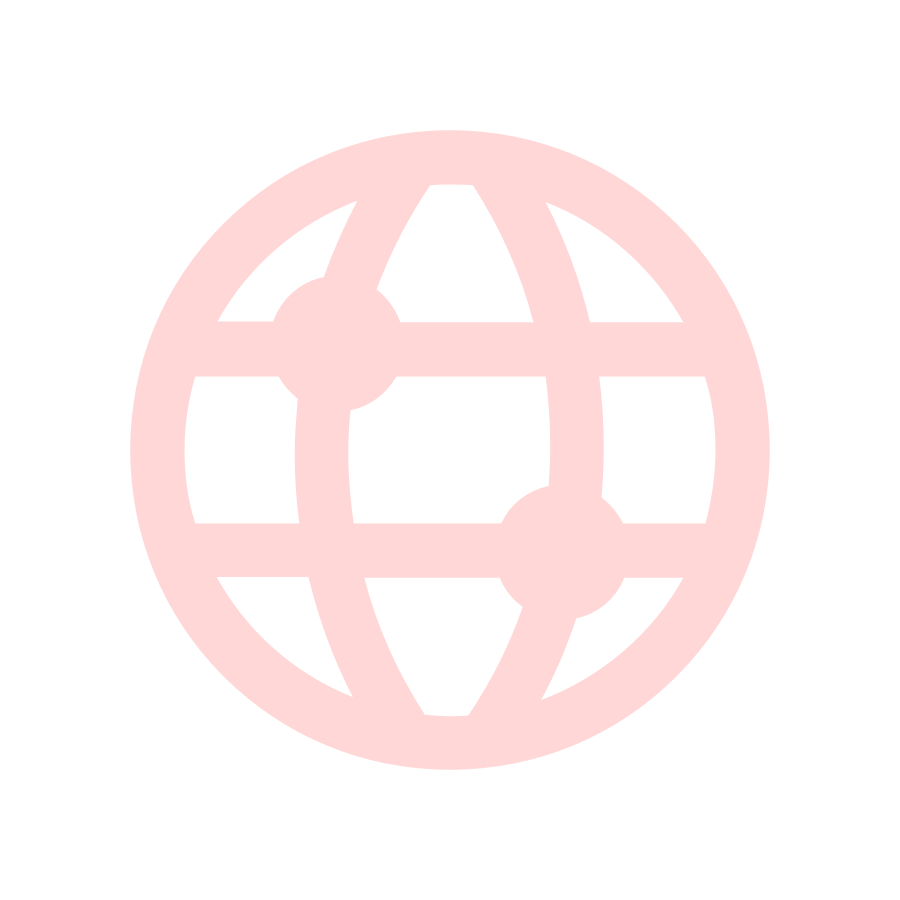
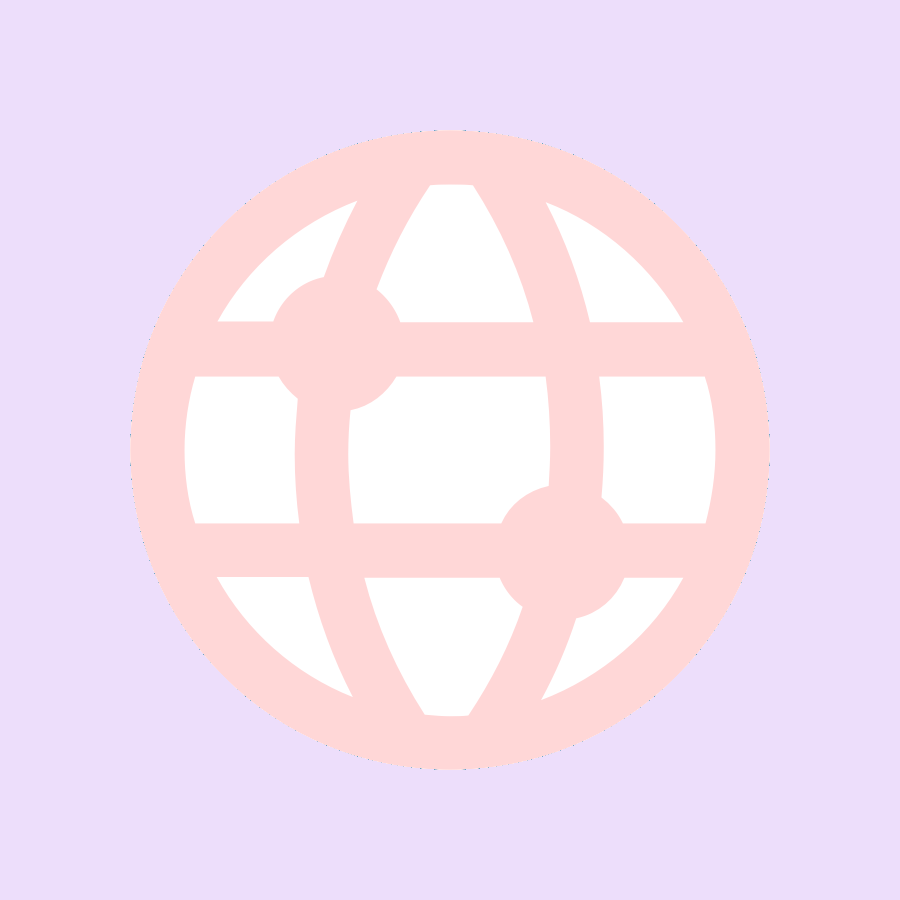
adding poti chat

diff --git a/frontend/src/views/profileDelete.vue b/frontend/src/views/profileDelete.vue
@@ -6,26 +6,29 @@
           Attention <strong>/!\</strong> <br />
           Ce changement sera <strong>irréversible</strong>
         </h1>
-        <p :id="$style.ban_login_under"> <u> Supprimer votre compte ? </u></p>
+        <p :id="$style.ban_login_under"><u> Supprimer votre compte ? </u></p>
       </div>
       <form action="" method="post" autocomplete="off" :id="$style.form">
         <div :id="$style.form_each">
           <div id="">
-              <label for="conf_body" :id="$style.label">
-            Entrez vote pseudo pour confirmer la supprésion
-          </label>
-          <input
-            :id="$style.input"
-            type="text"
-            v-model="body"
-            required
-          />
+            <label for="conf_body" :id="$style.label">
+              Entrez vote pseudo pour confirmer la supprésion
+            </label>
+            <input :id="$style.input" type="text" v-model="body" required />
           </div>
         </div>
         <div :id="$style.form_each">
           <div :id="$style.bottom_form_check">
-            <label for="confirm" :id="$style.label"> J'ai conscience que ces changements sont irréversibles et souhaite supprimer définitivement mon compte </label>
-            <input :id="$style.input" type="checkbox" v-model="check" required />
+            <label for="confirm" :id="$style.label">
+              J'ai conscience que ces changements sont irréversibles et souhaite
+              supprimer définitivement mon compte
+            </label>
+            <input
+              :id="$style.input"
+              type="checkbox"
+              v-model="check"
+              required
+            />
           </div>
         </div>
 
@@ -91,9 +94,9 @@ export default {
         return this.$router.push({ path: "/Home" });
       }
 
-    const infos = {
-      body: this.body.trim()
-    }
+      const infos = {
+        body: this.body.trim(),
+      };
 
       console.log(infos);
       fetch("http://localhost:5000/api/users/" + this.$route.params.id, {
@@ -108,10 +111,12 @@ export default {
           const user = await result_.json();
           if (!user.error) {
             this.error = "";
-            if(this.role != 1)
-             return this.$router.push({ path: "/" });
-             else
-             this.$router.push({ name: 'profileMain', params: { id: this.userId } });
+            if (this.role != 1) return this.$router.push({ path: "/" });
+            else
+              this.$router.push({
+                name: "profileMain",
+                params: { id: this.userId },
+              });
           } else {
             this.error = user.error;
           }
@@ -168,7 +173,7 @@ h1 {
   margin-top: 2em;
 }
 #bottom_form {
-  &_check{
+  &_check {
     display: flex;
     justify-content: center;
     width: 30em;
@@ -209,7 +214,7 @@ h1 {
 #label {
   display: block;
   margin-bottom: 1em;
-  &_up{
+  &_up {
     display: block;
   }
 }

diff --git a/frontend/src/views/profileMain.vue b/frontend/src/views/profileMain.vue
@@ -1,6 +1,6 @@
 <template>
   <main :id="$style.profile">
-    <NavHub />
+    <NavHub  @rerender="refreshComponents" :key="componentKey"/>
     <div :id="$style.fullProfile">
       <section :key="componentKey">
         <InfoProfile
@@ -118,8 +118,46 @@ export default {
       });
   },
   methods: {
-    rerender: function () {
+    refreshComponents: function () {
+      console.log("aaa")
       this.componentKey += 1;
+      fetch("http://localhost:5000/api/users/" + this.$route.params.id, {
+      method: "GET",
+      headers: new Headers({
+        "Content-Type": "application/json",
+        Authorization: `Bearer ${this.token}`,
+      }),
+    })
+      .then(async (result_) => {
+        const response = await result_.json();
+        if (response.error) {
+          return this.$router.push({ path: "/home" });
+        }
+        this.username = response.user.username;
+        this.email = response.user.email;
+      })
+      .catch((error) => {
+        console.log(error);
+      });
+    // Calling for the posts
+    fetch("http://localhost:5000/api/posts/user/" + this.$route.params.id, {
+      method: "GET",
+      headers: new Headers({
+        "Content-Type": "application/json",
+        Authorization: `Bearer ${this.token}`,
+      }),
+    })
+      .then(async (result_) => {
+        const arr = await result_.json();
+        if (arr.error) {
+          this.error = "Oops, une erreur est survenu";
+        } else {
+          this.allPosts = arr.post;
+        }
+      })
+      .catch((error) => {
+        console.log(error);
+      });
     },
   },
 };

diff --git a/frontend/src/components/NavHub.vue b/frontend/src/components/NavHub.vue
@@ -7,15 +7,21 @@
     />
     <nav :id="$style.nav">
       <div :id="$style.nav_full">
-        <router-link :id="$style.nav_home" to="/home" title="Direction l'accueil"
+        <router-link
+          :id="$style.nav_home"
+          to="/home"
+          title="Direction l'accueil"
           >Accueil</router-link
-        > |
+        >
+        |
         <router-link
           :id="$style.nav_profil"
           :to="{ name: 'profileMain', params: { id: userId } }"
           title="Direction votre profile"
+          @click="rerender"
           >Profil</router-link
-        > |
+        >
+        |
         <router-link :id="$style.nav_logout" to="/" title="Déconnexion">
           <i class="gg-log-off"></i
         ></router-link>
@@ -45,7 +51,11 @@ export default {
     this.userId = auth.userId;
     this.role = auth.role;
   },
-
+  methods: {
+    rerender() {
+      this.$emit("rerender");
+    },
+  },
 };
 </script>
 
@@ -108,5 +118,4 @@ $bg-red: #501b1d;
     margin-bottom: -1em;
   }
 }
-
 </style>

diff --git a/frontend/src/components/InfoProfile.vue b/frontend/src/components/InfoProfile.vue
@@ -65,7 +65,6 @@
               v-if="userId == profileId || role == 1"
               :to="{ name: 'profileDelete', params: { id: id } }"
               title="Supprimer votre compte"
-              @click="forceRerender"
             >
               <i class="gg-trash"></i>
               <span> Supprimer le compte </span>
@@ -88,7 +87,6 @@ export default {
     };
   },
   methods: {
-    forceRerender: function () {},
   },
   created() {
     this.profileId = this.$route.params.id;
@@ -112,7 +110,7 @@ strong {
 #Info_profile {
   margin: 2em 1em 0 1em;
   border-radius: 5px;
-  background-color: lighten(grey, 40);
+  background-color: lighten(yellow, 50);
   padding-bottom: 1em;
   padding-top: 1em;
 }

diff --git a/backend/routes/post.js b/backend/routes/post.js
@@ -9,6 +9,6 @@ router.post('/', auth,multer, postCtrl.createPost)
 router.get('/:id', auth, postCtrl.getOnePost)
 router.get('/user/:id', auth, postCtrl.getOneUserAllPosts)
 router.get('/', auth, postCtrl.getAllPost)
-router.put('/:id', auth,multer, postCtrl.updatePost)
+router.put('/:id', auth, multer, postCtrl.updatePost)
 router.delete('/:id', auth,multer, postCtrl.deletePost)
 module.exports = router;

diff --git a/frontend/src/components/Comments.vue b/frontend/src/components/Comments.vue
@@ -6,7 +6,7 @@
       >
     </router-link>
     <p :class="$style.body">{{ body }}</p>
-    <p :class="$style.up">modifié le : {{ updatedAt }}</p>
+    <p :class="$style.up">Modifié le : {{ updatedAt }}</p>
     <div :class="$style.slots">
       <slot></slot>
     </div>

diff --git a/frontend/src/App.vue b/frontend/src/App.vue
@@ -43,6 +43,7 @@ $pink: #ffd7d7;
   -webkit-font-smoothing: antialiased;
   -moz-osx-font-smoothing: grayscale;
   text-align: center;
+  background-color: lighten(blueviolet,40);
 }
   h1 {
     font-family: 'Roboto', Avenir, Helvetica, Arial, sans-serif;

diff --git a/frontend/src/views/login.vue b/frontend/src/views/login.vue
@@ -112,7 +112,7 @@ h1 {
 }
 
 #login_page{
-      margin-bottom: 2em;
+      min-height: 1100px;
 }
 
 #ban_login {
